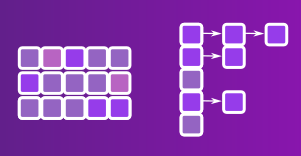
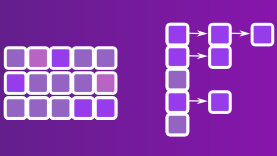
Fixed mix-up between imagenet and basic data structures panels.

diff --git a/index.html b/index.html
@@ -68,20 +68,20 @@
 									<header>
 										<h2>Imagenet<br />
 									</header>
-									<a class="image fit"><img src="images/data_structures.png" alt="" /></a>
-									<p>Manual implementations of a linked list, dynamic array, and bitvector, with various algorithm implementations.</p>
-									<ul class="actions special">
-										<li><a href="https://github.com/owenrharding/basic-data-structures" class="button">View Project</a></li>
-									</ul>
-								</article>
-								<article>
-									<header>
-										<h2>Linked List, Dynamic Array, and Bitvector<br />
-									</header>
 									<a class="image fit"><img src="images/imagenet.png" alt="" /></a>
 									<p>Multi-threaded server program with HTTP communication (over TCP) between client programs.</p>
 									<ul class="actions special">
 										<li><a href="https://github.com/owenrharding/imagenet" class="button">View Project</a></li>
+									</ul>
+								</article>
+								<article>
+									<header>
+										<h2>Basic Data Structures<br />
+									</header>
+									<a class="image fit"><img src="images/data_structures.png" alt="" /></a>
+									<p>Manual implementations of a linked list, dynamic array, and bitvector, with various algorithm implementations.</p>
+									<ul class="actions special">
+										<li><a href="https://github.com/owenrharding/basic-data-structures" class="button">View Project</a></li>
 									</ul>
 								</article>
 								<article>
